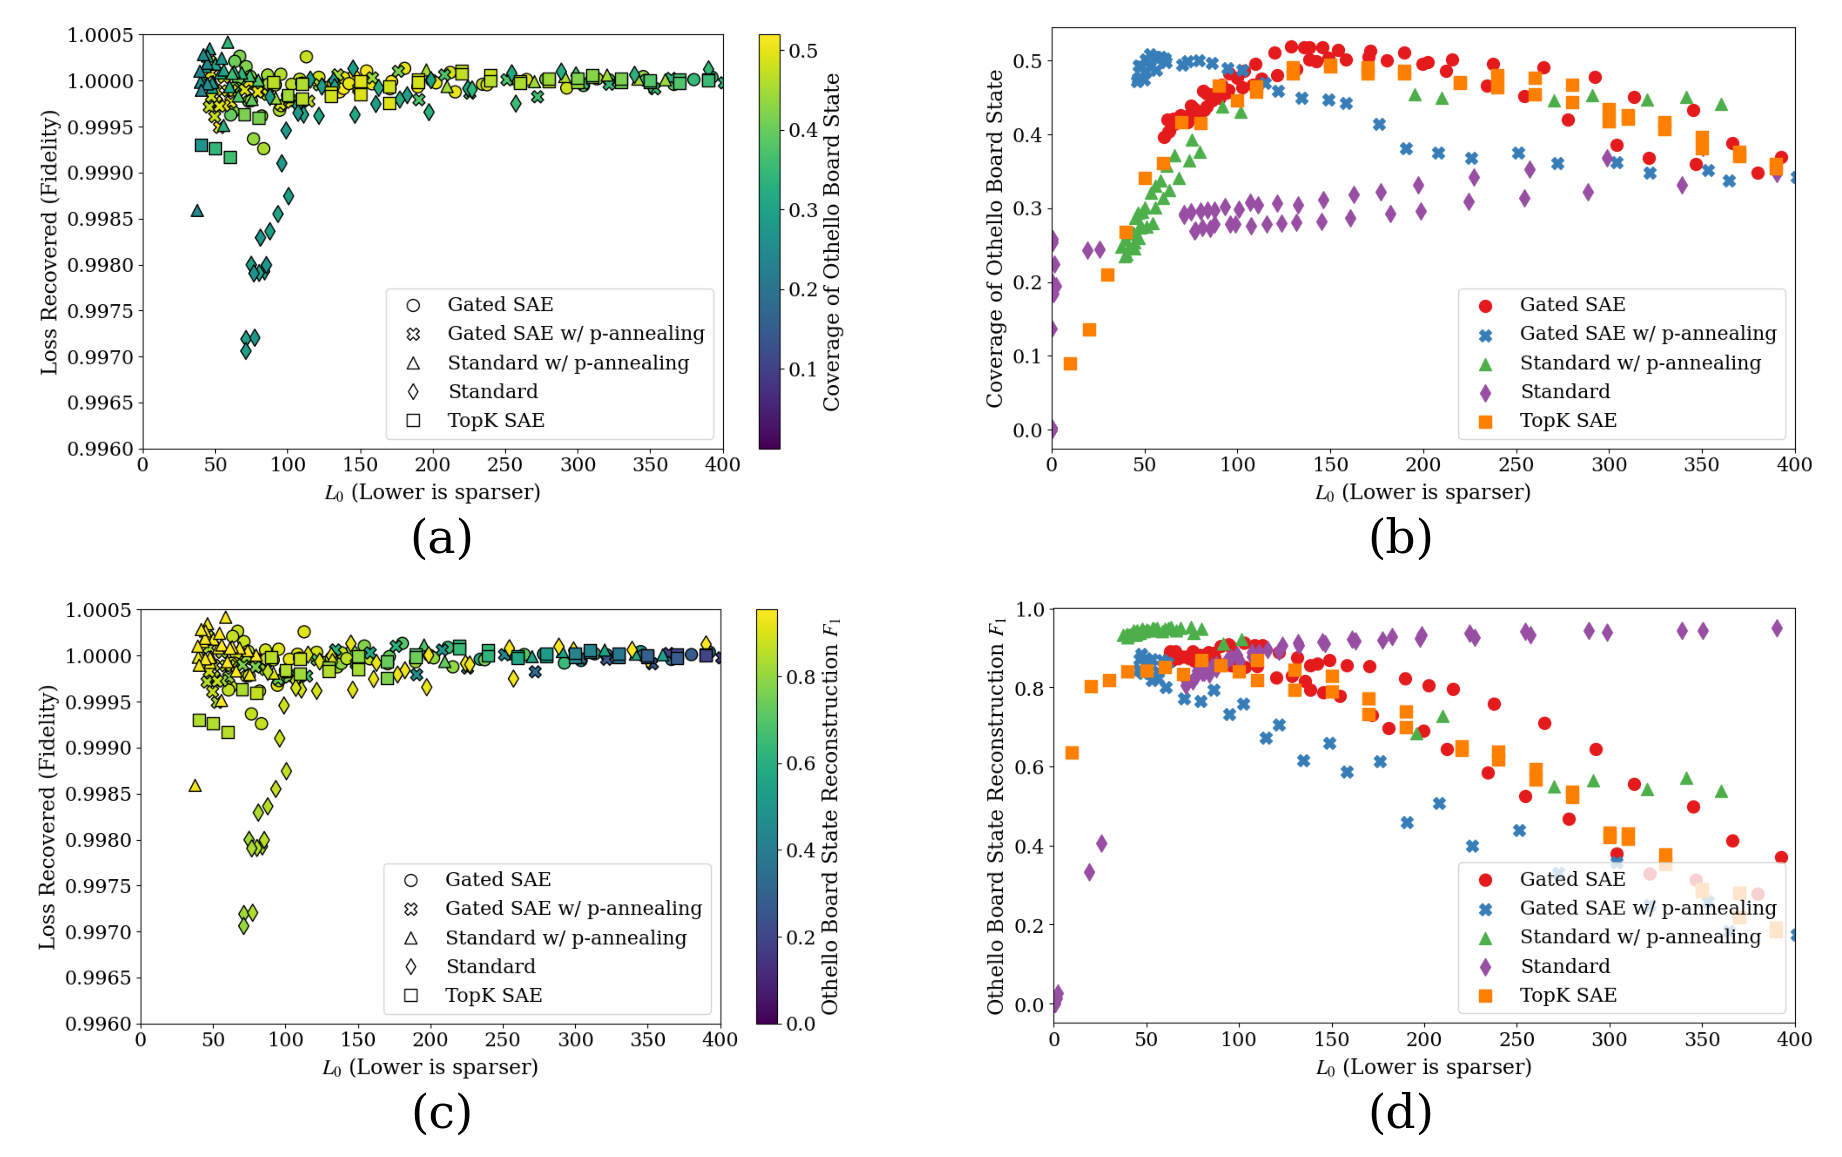
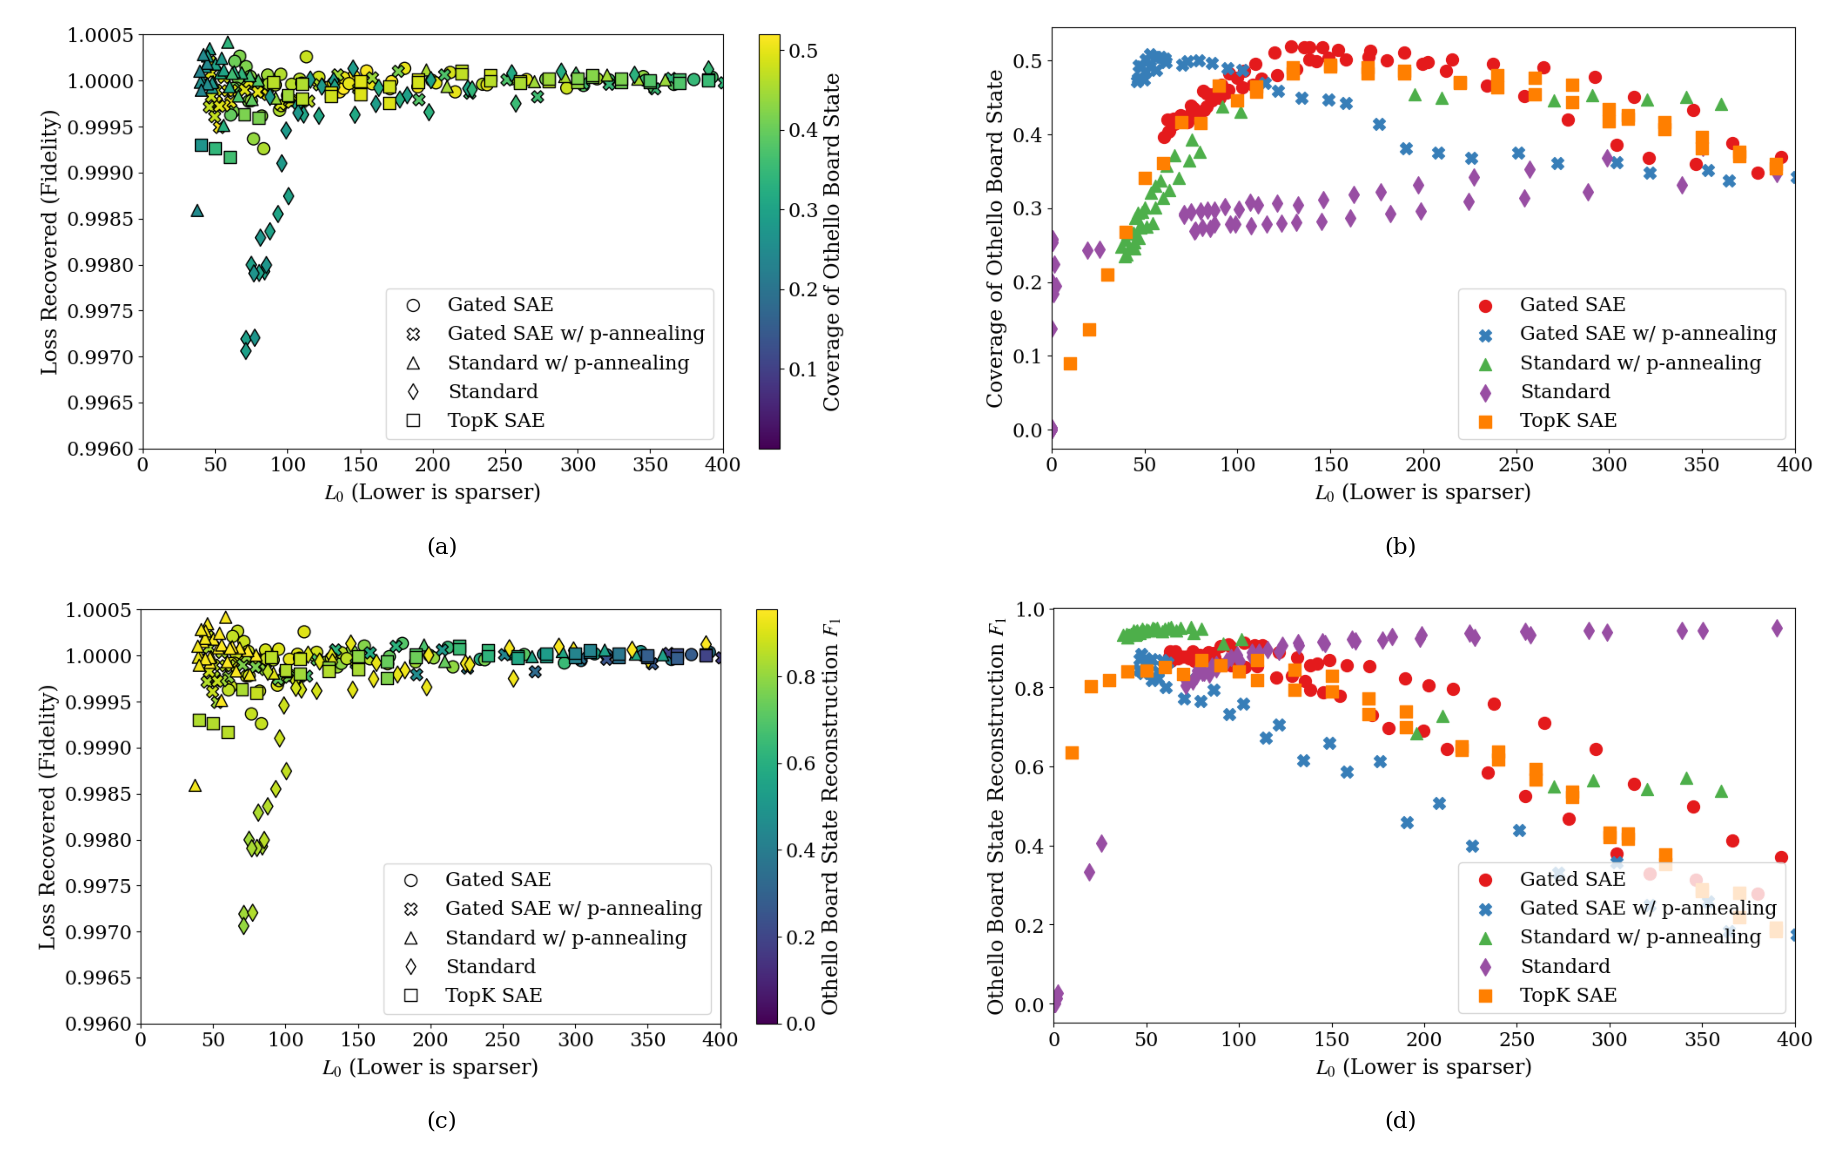
Size the subcaptions off the panel scale instead of the canvas
17 pt was read against the composite's own width, but a panel is drawn into a
cell half its authored width, so its 17 pt type appears at ~8 pt there and the
letters came out twice the size of everything they label. combine_figure now
scales them by that same factor.

diff --git a/src/spade/l0_operating_point/combine_figure.py b/src/spade/l0_operating_point/combine_figure.py
@@ -26,7 +26,7 @@ import matplotlib.image as mpimg
 import matplotlib.pyplot as plt
 
 from spade.common.paths import repo_root
-from spade.l0_operating_point.plot_pareto import OUR_FONTS
+from spade.l0_operating_point.plot_pareto import OUR_FONTS, OUR_TYPE
 
 RENDERS = repo_root() / "figures/l0_operating_point"
 
@@ -37,9 +37,7 @@ PANELS = [
     ("othello_3var_reconstruct.png", "(c)"),
     ("othello_2var_reconstruct.png", "(d)"),
 ]
-# The composite is ~9.7in wide and prints at NeurIPS's 5.5in, so 17 pt lands near 10 pt --
-# a size the panels' own 32 pt type also lands near. Sizes here are canvas pt, not final pt.
-CAPTION_PT = 17
+PANEL_WIDTH_IN = 10   # plot_pareto's figsize; each panel lands in a cell narrower than that
 
 # Which panel directory each combined figure is built from. The his-SAEs-only figure takes
 # the styled render, not the byte-identical one verify_match checks.
@@ -56,6 +54,10 @@ def _compose(panel_dir: Path, out_stem: Path, dpi: int) -> Path:
     images = [(mpimg.imread(panel_dir / name), caption) for name, caption in PANELS]
     cell_w = max(im.shape[1] for im, _ in images)
     cell_h = max(im.shape[0] for im, _ in images)
+    # A panel is authored PANEL_WIDTH_IN wide and drawn into a cell of cell_w/dpi, so its
+    # 17 pt type appears at about 8 pt here. Set the subcaption from the same scale, or it
+    # reads at twice the size of everything it labels.
+    caption_pt = OUR_TYPE["axes.labelsize"] * (cell_w / dpi) / PANEL_WIDTH_IN
 
     fig, axes = plt.subplots(
         2, 2, figsize=(2 * cell_w / dpi, 2 * cell_h / dpi), dpi=dpi
@@ -65,7 +67,7 @@ def _compose(panel_dir: Path, out_stem: Path, dpi: int) -> Path:
         ax.set_xlim(-(cell_w - im.shape[1]) / 2, im.shape[1] + (cell_w - im.shape[1]) / 2)
         ax.set_ylim(im.shape[0] + (cell_h - im.shape[0]) / 2, -(cell_h - im.shape[0]) / 2)
         ax.axis("off")
-        ax.set_title(caption, fontsize=CAPTION_PT, y=-0.11)
+        ax.set_title(caption, fontsize=caption_pt, y=-0.11)
 
     fig.subplots_adjust(wspace=0.02, hspace=0.16, left=0.01, right=0.99, top=0.99, bottom=0.05)
     out_stem.parent.mkdir(parents=True, exist_ok=True)

diff --git a/analysis/l0_operating_point/KARVONEN_STYLE.md b/analysis/l0_operating_point/KARVONEN_STYLE.md
@@ -179,7 +179,9 @@ and point sizes and change only the typeface and its sizes:
   rescaled to 10in is 17 and 16, so at equal printed width these panels carry the same apparent
   type as every other figure in the repo. His 18/18/16 was marginally larger.
 - **Subcaptions.** `(a)`–`(d)`, nothing more. His wording ("Coverage of Board State vs. $L_0$")
-  restated axis labels the panels already carry.
+  restated axis labels the panels already carry. Their size is derived, not chosen: a panel is
+  drawn into a cell about half its authored width, so `combine_figure` scales the subcaption by
+  the same factor and it lands on the panels' own label size (~8 pt) instead of twice it.
 
 Two consequences worth stating. Point sizes are still his `s=100`, tuned for a 10in canvas, so
 the markers read larger than a house figure's. And a composite is two panels wide: place it at
